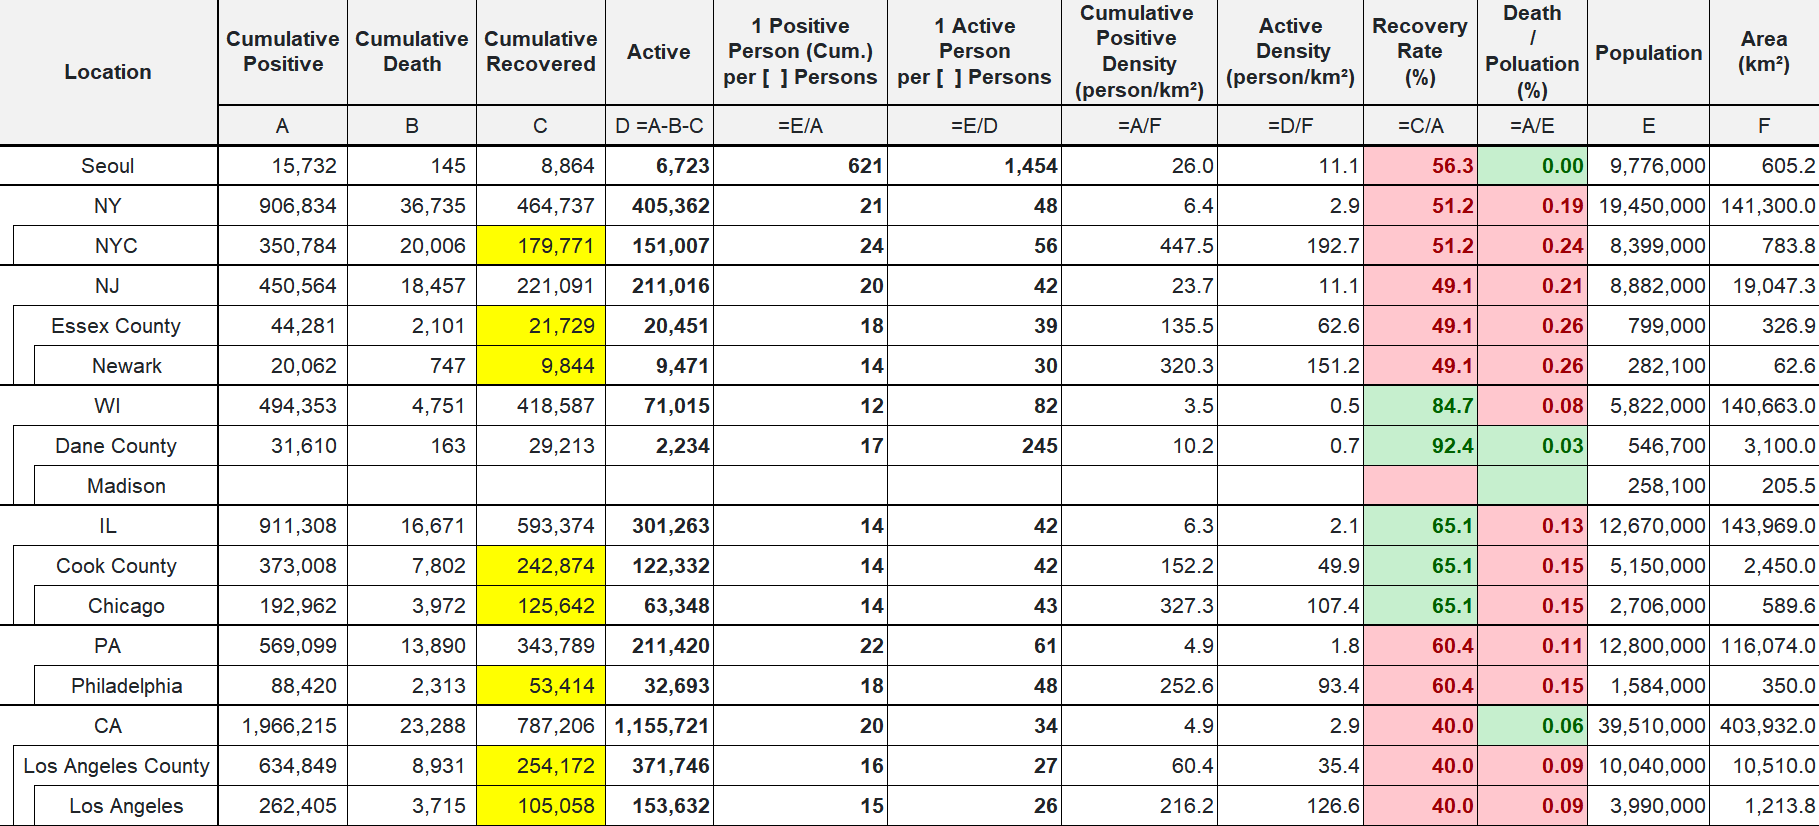
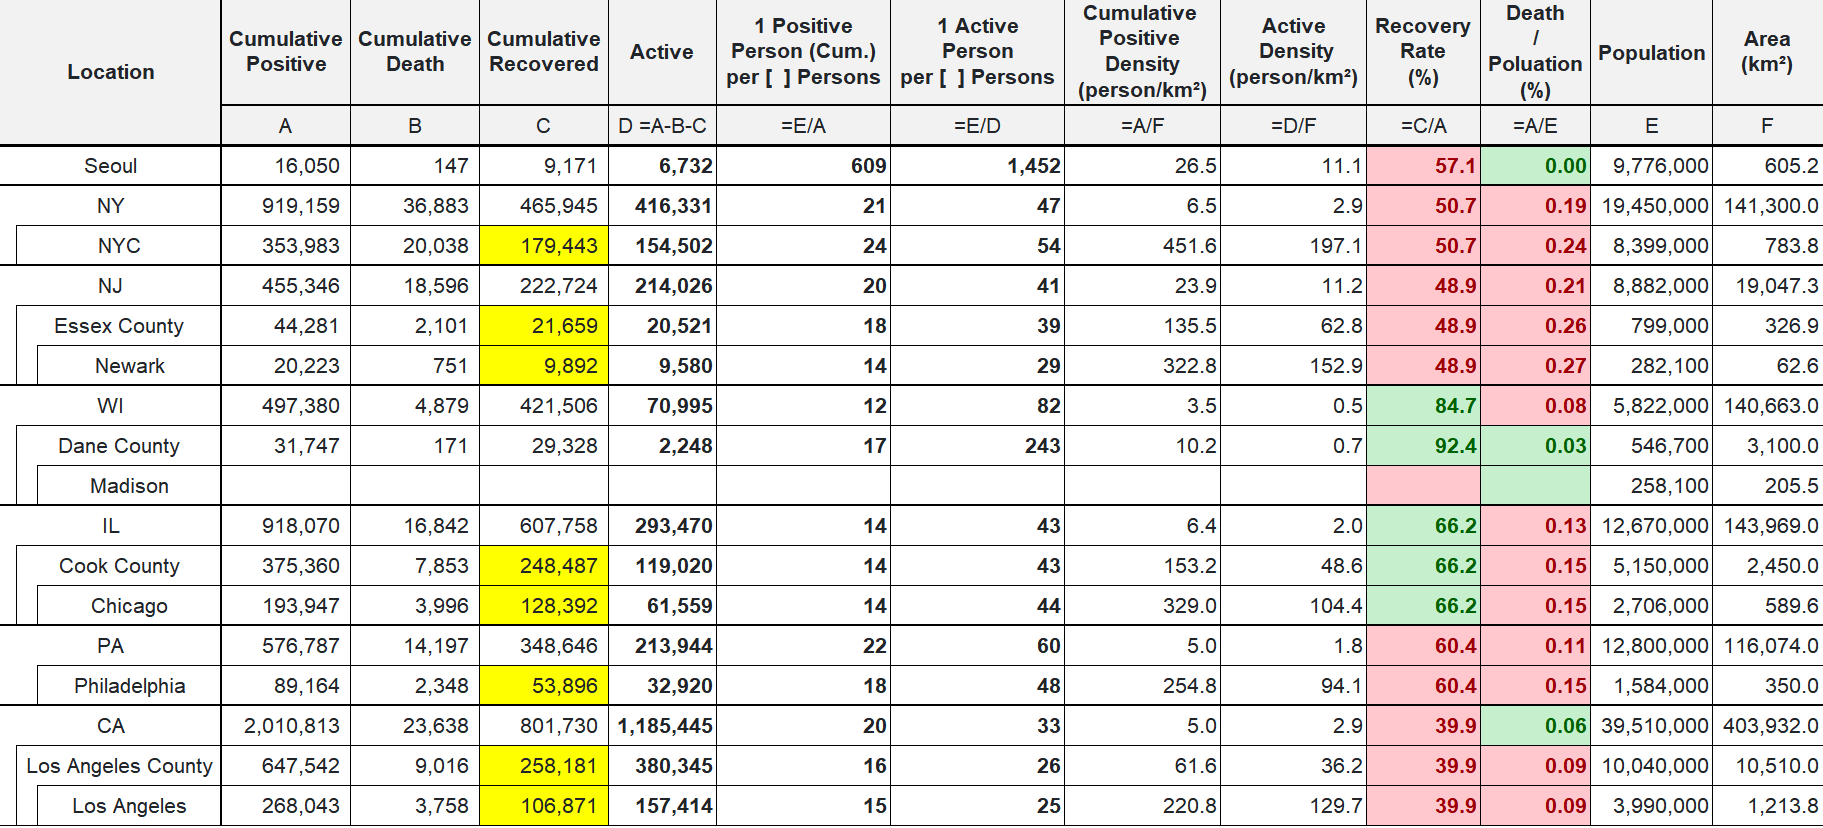
update 12/23 status

diff --git a/index.html b/index.html
@@ -19,7 +19,7 @@
 
 <body class="container-fluid">
 	<h1> CoronaV for Friends</h1>
-	<h2> Data updated at Dec 23 2020 EST 00:30</h2>
+	<h2> Data updated at Dec 23 2020 EST 21:45</h2>
 	<hr>
 	<main>
 		<div class="row">
